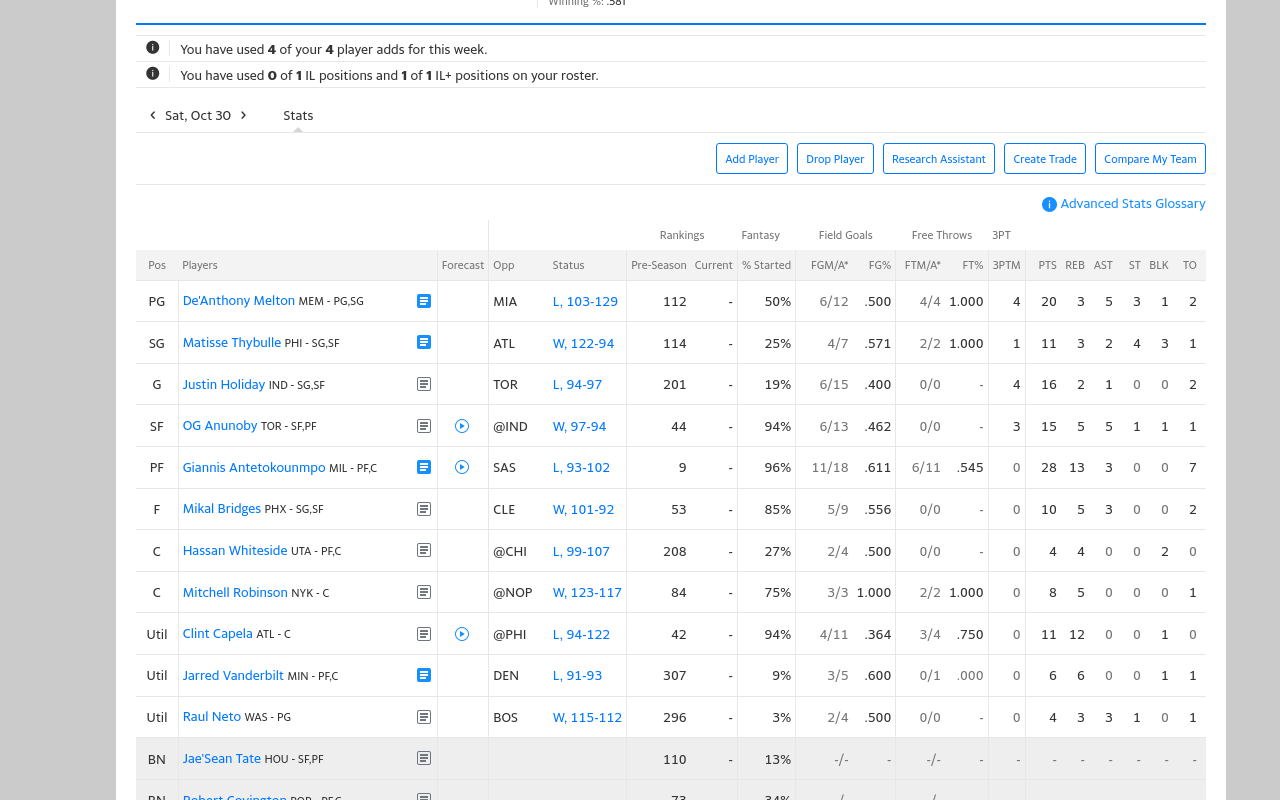
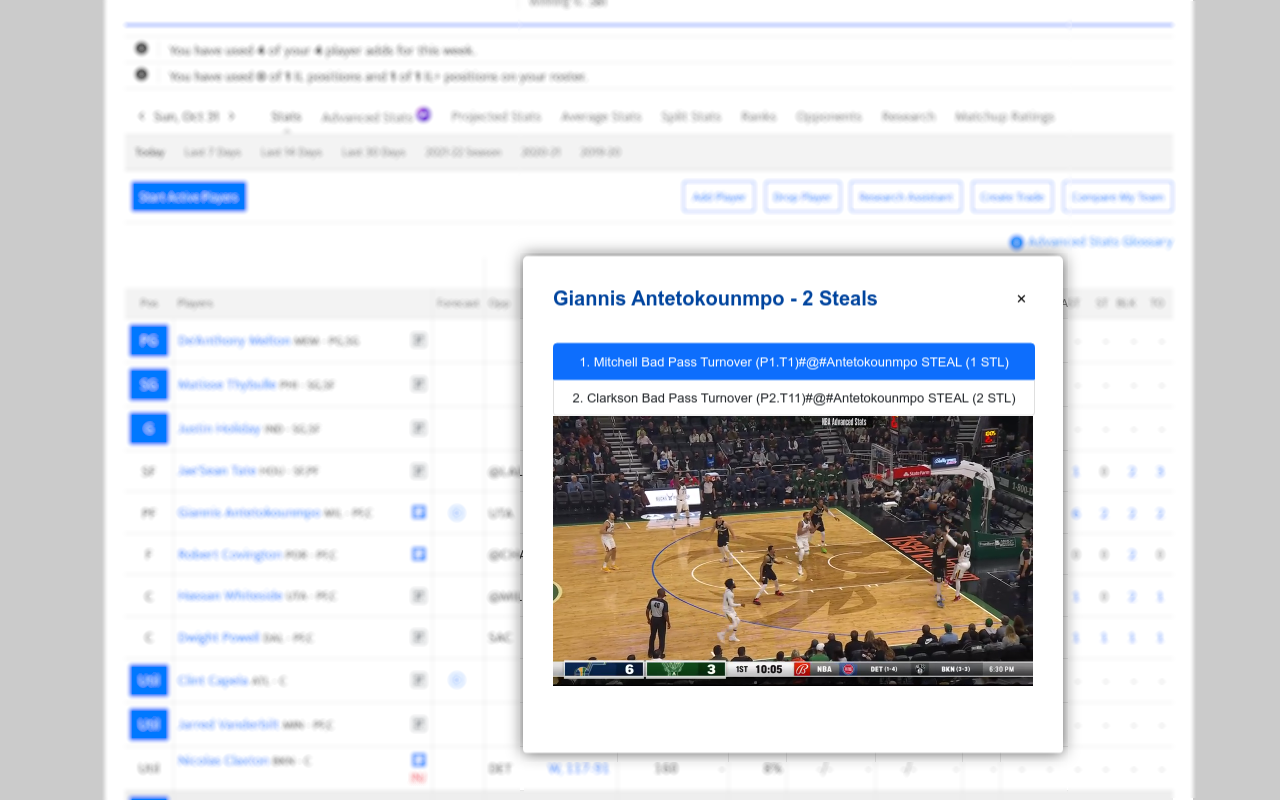
update chrome extension to fix invalid col link inserted in other teams

diff --git a/chromeextension/src/chromeServices/DOMEvaluator.ts b/chromeextension/src/chromeServices/DOMEvaluator.ts
@@ -7,7 +7,7 @@ const SELECTED_DATE : any = getSelectedDate()
 const MODAL_CONFIG = {
     // onShow: (modal : any) => console.info(`${modal.id} is shown`), // [1]
     onClose: () => {
-        document.getElementById("php-video-player")?.remove()
+        (document.getElementById("php-video-player") as HTMLVideoElement).pause()
     }, // [2]
     openTrigger: 'data-micromodal-open', // [3]
     closeTrigger: 'data-micromodal-close', // [4]
@@ -23,14 +23,14 @@ var currentSelectedListElem = document.createElement('li');;
 
 // ATTRIBUTES_MAP key = Yahoo's Naming. Value = NBA's API Naming.
 const ATTRIBUTES_MAP : { [key: string]: string | string[] } = {
-    "Field Goals Made/Field Goals Attempted": ["FGM", "FGA"],
-    "Free Throws Made/Free Throws Attempted": ["FGM", "FGA"],
-    "3-point Shots Made": "FG3M",
-    "Total Rebounds": "REB",
-    "Assists": "AST",
-    "Steals": "STL",
-    "Blocked Shots": "BLK",
-    "Turnovers": "TOV",
+    "FGM/A*": ["FGM", "FGA"],
+    "FTM/A*": ["FTM", "FTA"],
+    "3PTM": "FG3M",
+    "REB": "REB",
+    "AST": "AST",
+    "ST": "STL",
+    "BLK": "BLK",
+    "TO": "TOV",
 }
 
 function getElementsByXpath(path: string, parent: Node | null) {
@@ -67,6 +67,21 @@ function createLink(playerName: string, teamAbbreviation: string, gameDate: stri
     return url.toString()
 }
 
+function parseHTMLTableElem(tableEl : HTMLElement) {
+    const columns = Array.from(tableEl.querySelectorAll('tr.Alt.Last > th')).map(it => it.textContent)
+    const rows = tableEl.querySelectorAll('tbody > tr')
+    return Array.from(rows).map(row => {
+        const cells : any = Array.from(getElementsByXpath(`td[not(.//a[@title="Add to Watch List"])]`, row))
+        return columns.reduce((obj : any, col : any, idx : any) => {
+            obj[col] = {
+                "innerText": cells[idx].innerText,
+                "elem": cells[idx],
+            }
+            return obj
+        }, {})
+    })
+}
+
 function getSelectedDate() {
     let selectedDateElem = getElementByXpath(`//select[@name="date"]/option[@selected]`, null)
     if (selectedDateElem == null) {
@@ -81,83 +96,33 @@ function getSelectedDate() {
     return urlParams.get('date')
 }
 
-// getHeaderIndexes returns a map with the header names that map to their indexes.
-function getHeaderIndexes() {
-    let headerIndexMap : { [key: string]: number } = {}
-    let headerElements = getElementsByXpath(`//table[@id="statTable0"]/thead/tr[2]/th`, null);
-    for (var idx = 0; idx < headerElements.length; idx++) {
-        let elem : Node | null = headerElements[idx]
-        if (elem == null ) {
-            continue
-        }
-        let elementTitle = (elem as HTMLElement).getAttribute("title")
-        if (elementTitle == null) {
-            continue
-        }
-        if (ATTRIBUTES_MAP.hasOwnProperty(elementTitle)) {
-            headerIndexMap[elementTitle] = idx
-        }
-    }
-    return headerIndexMap
-}
-
-function getPlayerData() {
-    let playerDataList = []
-    let playerCellElements = getElementsByXpath(`//table[@id="statTable0"]/tbody/tr/td//div[contains(@class, "ysf-player-name")]`, null);
-    for (var idx = 0; idx < playerCellElements.length; idx++) {
-        let elem : Node | null = playerCellElements[idx]
-        if (elem == null ) {
-            continue
-        }
-        let playerNameElem = getElementByXpath(`a[contains(@class, "name")]`, elem)
-        if (playerNameElem == null) {
-            continue
-        }
-        let playerName = (playerNameElem as HTMLElement).innerText
-        let playerTeamPosElem = getElementByXpath(`span[contains(text(), "-")]`, elem)
-        if (playerTeamPosElem == null) {
-            continue
-        }
-        let playerTeam = (playerTeamPosElem as HTMLElement).innerText.split("-")[0].trim()
-        // console.log(`${playerName}: ${playerTeam}`)
-        playerDataList.push({
-            playerName: playerName,
-            teamAbbreviation: playerTeam,
-        })
-    }
-    return playerDataList
-}
-
 async function updateStatCells() {
-    let headerIndexMap = getHeaderIndexes()
-    let playerDataList = getPlayerData()
+    let tableElem : any = document.querySelector("#statTable0")
+    let playerDataList = parseHTMLTableElem(tableElem)
     for (let playerRowIdx = 0; playerRowIdx < playerDataList.length; playerRowIdx++) {
-        let playerName = playerDataList[playerRowIdx]["playerName"]
-        let teamAbbreviation = playerDataList[playerRowIdx]["teamAbbreviation"]
-        let playerRowElem = getElementByXpath(`//table[@id="statTable0"]/tbody/tr[${playerRowIdx + 1}]`, null)
-        for (const [yahooStatName, colIndex] of Object.entries(headerIndexMap)) {
-            let statCellElem : any = getElementByXpath(`td[${colIndex+1}]/div`, playerRowElem)
-            // console.log(`${yahooStatName}: td[${colIndex+1}]/div`)
-            // console.log(statCellElem)
-            let statValue = (statCellElem as HTMLElement).innerText
+        let playerData = playerDataList[playerRowIdx]
+        if (!playerData.Status["innerText"].startsWith("W, ") && !playerData.Status["innerText"].startsWith("L, ")) {
+            // Skip games that have not ended.
+            continue
+        }
+        let playerName = (getElementByXpath(`.//a[contains(@class, "name")]`, playerData.Players["elem"]) as HTMLElement).innerText
+        // e.g. team Element = "MEM - PG,SG" -- after split & trim, "MEM"
+        let teamAbbreviation = (getElementByXpath(`.//span[contains(text(), " - ")]`, playerData.Players["elem"]) as HTMLElement).innerText.split("-")[0].trim()
+        for (let [yahooStatName, nbaAPIStatName] of Object.entries(ATTRIBUTES_MAP)) {
+            let statValue = playerData[yahooStatName]["innerText"]
+            let statCellElem : any = getElementByXpath(`div`, playerData[yahooStatName]["elem"])
             // Skip cells where there's no stat.
             if (statValue === "-" || statValue === "0" || statValue === "-/-") {
+                // console.log(`"Skipping ${playerName} ${yahooStatName}`)
                 continue
             }
-            // console.log(statValue)
             switch (yahooStatName) {
-                case "Field Goals Made/Field Goals Attempted":
-                case "Free Throws Made/Free Throws Attempted": // @ts-ignore
-                    let nbaAPIStatNames : any = ATTRIBUTES_MAP[yahooStatName]
-                    for (let statType in nbaAPIStatNames) {
-                        makeCellClickable(statCellElem, playerName, teamAbbreviation, statType, statValue, yahooStatName)
-                    }
+                case "FGM/A*":
+                case "FGT/A*": // @ts-ignore
+                    // TODO(henleyk): Support FGM/A and FTM/A. These require additional logic to parse and inject 2 links.
                     break
                 default:
-                    if (ATTRIBUTES_MAP.hasOwnProperty(yahooStatName)) {
-                        let statType : any = ATTRIBUTES_MAP[yahooStatName]
-                        makeCellClickable(statCellElem, playerName, teamAbbreviation, statType, statValue, yahooStatName)
-                    }
+                    makeCellClickable(statCellElem, playerName, teamAbbreviation, (nbaAPIStatName as string), statValue, yahooStatName)
             }
         }
     }
@@ -186,12 +151,18 @@ function makeCellClickable(element: Node, playerName: string, teamAbbreviation: 
 
     wrapper.addEventListener('click', async (e : any) => {
         // console.log(link);
+        // Clear previous data.
+        deleteVideoListInModal();
+        (document.querySelector("#php-video-player > source") as HTMLElement).setAttribute("src", "");
+        (document.querySelector("#loading-img") as HTMLElement).style.display = "inline"
+        // Show the modal with loading screen.
+        MicroModal.show('modal-1', MODAL_CONFIG);
         let videoResults : any[] = await getVideos(link)
-        updateModalDisplayData(playerName, teamAbbreviation, yahooStatName, statValue, videoResults)
+        updateModalDisplayData(playerName, teamAbbreviation, yahooStatName, statValue, videoResults);
+        (document.querySelector("#loading-img") as HTMLElement).style.display = "none"
         // set modal left and top location
         let offset = getOffset(e.target)
         let modalContainer = (document.getElementById("modal-1-container") as HTMLElement)
-        MicroModal.show('modal-1', MODAL_CONFIG);
         // click first video in the list to start trigger video playing.
         currentSelectedListElem.click()
         // adjust location of modal.
@@ -201,6 +172,7 @@ function makeCellClickable(element: Node, playerName: string, teamAbbreviation: 
 }
 
 function createModal() {
+    let loadingImgSrc = chrome.runtime.getURL("ball-triangle.svg")
     let modalHtml : string = `
 <div class="modal micromodal-slide" id="modal-1" aria-hidden="true">
 <div class="modal__overlay" tabindex="-1" data-micromodal-close>
@@ -210,6 +182,7 @@ function createModal() {
       <button class="modal__close" aria-label="Close modal" data-micromodal-close></button>
     </header>
     <main class="modal__content" id="modal-1-content">
+      <img id="loading-img" src="${loadingImgSrc}" />
       <ol class="list-group list-group-numbered" id="pbp-videos-list"></ol>
       <div id="php-video-container">
         <video
@@ -244,14 +217,7 @@ function createModal() {
     MicroModal.init(MODAL_CONFIG)
 }
 
-async function updateModalDisplayData(playerName: string, teamAbbreviation: string, yahooStatName: string, statValue: string, videoResults : any[]) {
-    // Update modal title to Player Name and the stat title.
-    let statTitle = statValue + " " + yahooStatName // e.g. 4 3-point Shots Made
-    let modalTitleElem : any = document.getElementById("modal-1-title")
-    modalTitleElem.innerText = playerName + " - " + statTitle
-    // Update Header to Show Player Photo.
-    // TODO(henleyk)
-    // Update Body to Show List of Videos Links.
+function deleteVideoListInModal() {
     let pbpVideosListElem = document.getElementById("pbp-videos-list")
     if (pbpVideosListElem == null) {
         console.log("couldn't find videos list element")
@@ -261,6 +227,18 @@ async function updateModalDisplayData(playerName: string, teamAbbreviation: stri
     while (pbpVideosListElem.firstChild) {
         pbpVideosListElem.removeChild(pbpVideosListElem.firstChild);
     }
+}
+
+async function updateModalDisplayData(playerName: string, teamAbbreviation: string, yahooStatName: string, statValue: string, videoResults : any[]) {
+    // Update modal title to Player Name and the stat title.
+    let statTitle = statValue + " " + yahooStatName // e.g. 4 3-point Shots Made
+    let modalTitleElem : any = document.getElementById("modal-1-title")
+    modalTitleElem.innerText = playerName + " - " + statTitle
+    // Update Header to Show Player Photo.
+    // TODO(henleyk)
+    // Update Body to Show List of Videos Links.
+    deleteVideoListInModal()
+    let pbpVideosListElem = (document.getElementById("pbp-videos-list") as HTMLElement)
     // Repopulate list items.
     for (let idx = 0; idx < videoResults.length; idx++) {
         let result = videoResults[idx]

diff --git a/chromeextension/src/App.tsx b/chromeextension/src/App.tsx
@@ -4,33 +4,15 @@ import './App.css';
 function App() {
  return (
    <div className="App">
-     <h1>SEO Extension built with React!</h1>
+     <h1>Fantasy Basketball Stat Replay</h1>
 
-     <ul className="SEOForm">
-       <li className="SEOValidation">
-         <div className="SEOValidationField">
-           <span className="SEOValidationFieldTitle">Title</span>
-           <span className="SEOValidationFieldStatus Error">
-             90 Characters
-           </span>
-         </div>
-         <div className="SEOVAlidationFieldValue">
-           The title of the page
-         </div>
-       </li>
-
-       <li className="SEOValidation">
-         <div className="SEOValidationField">
-           <span className="SEOValidationFieldTitle">Main Heading</span>
-           <span className="SEOValidationFieldStatus Ok">
-             1
-           </span>
-         </div>
-         <div className="SEOVAlidationFieldValue">
-           The main headline of the page (H1)
-         </div>
-       </li>
-     </ul>
+     <div>
+        Ensure that you have this extension enabled for "https://basketball.fantasysports.yahoo.com/nba/*" URLs.
+        <br />
+        <br />
+        Preview:
+        <img src="./Signature.png" />
+     </div>
    </div>
  );
 }
